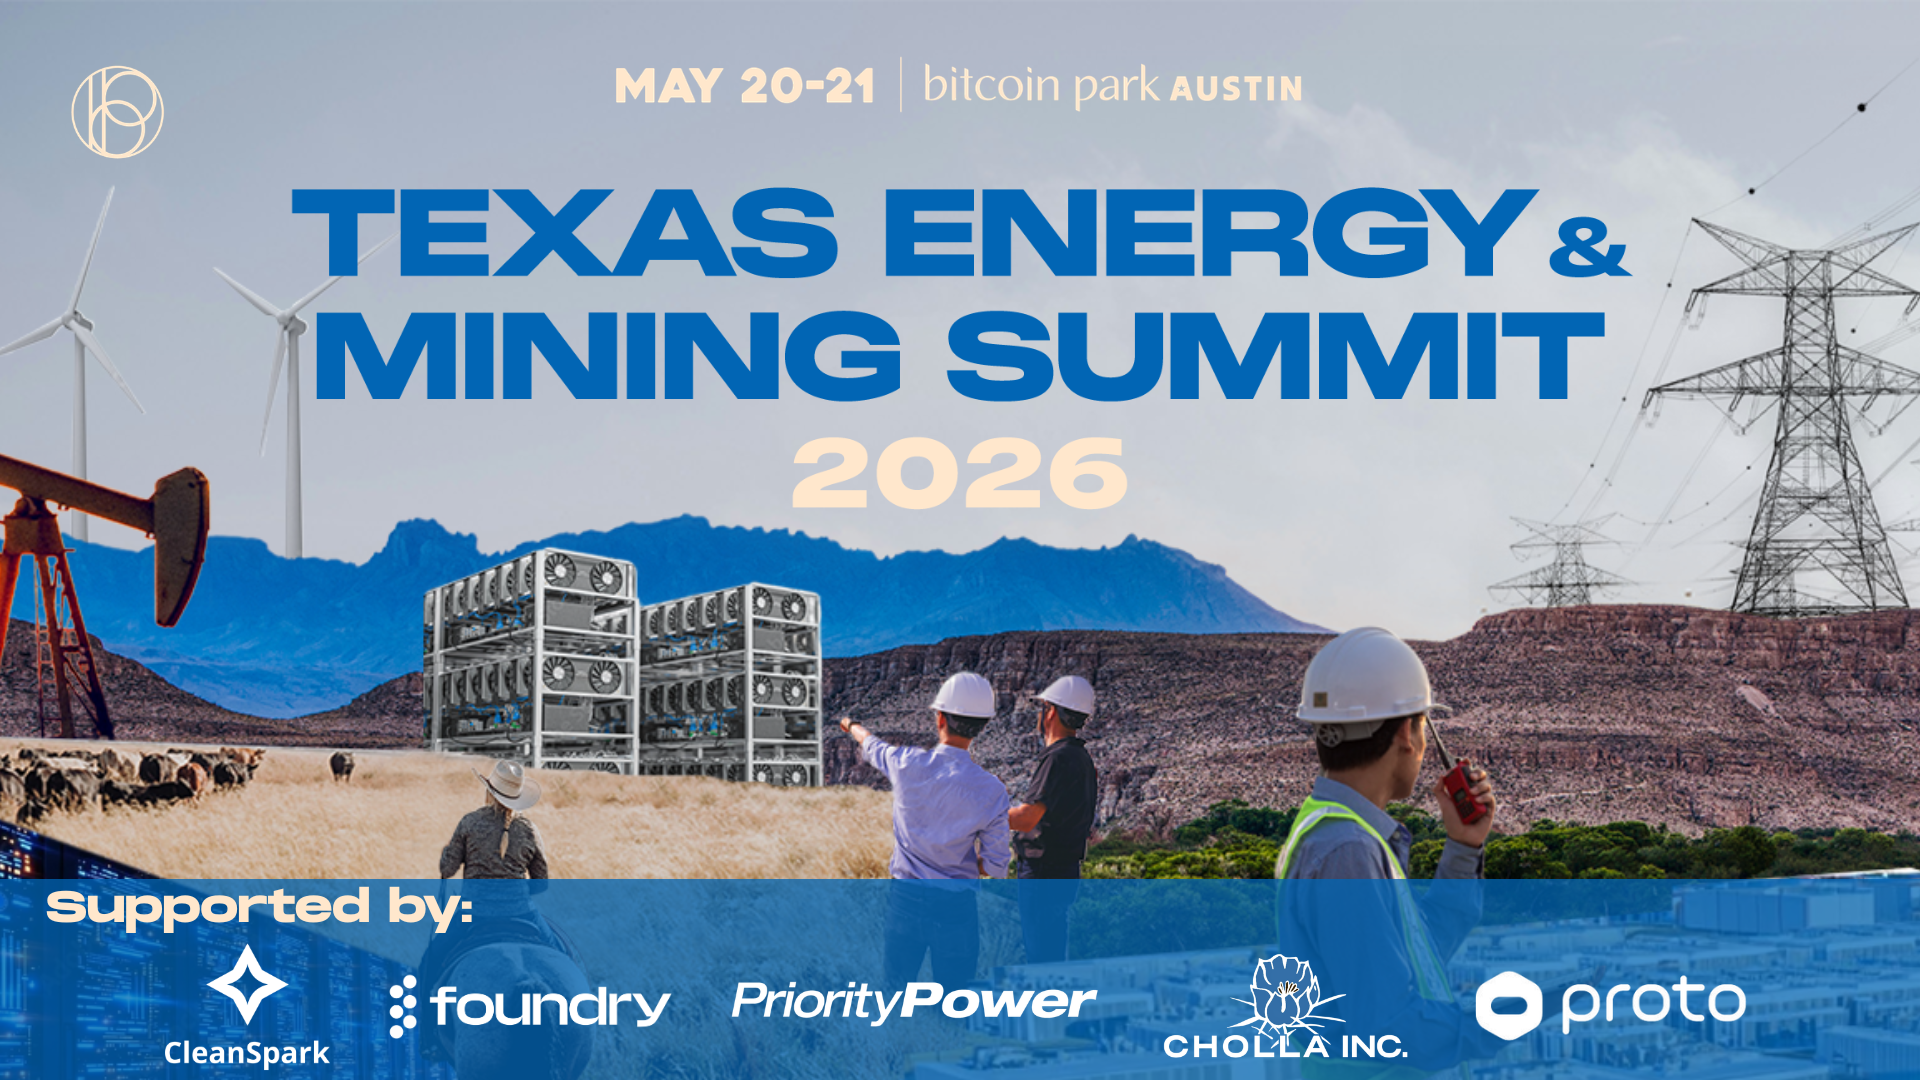
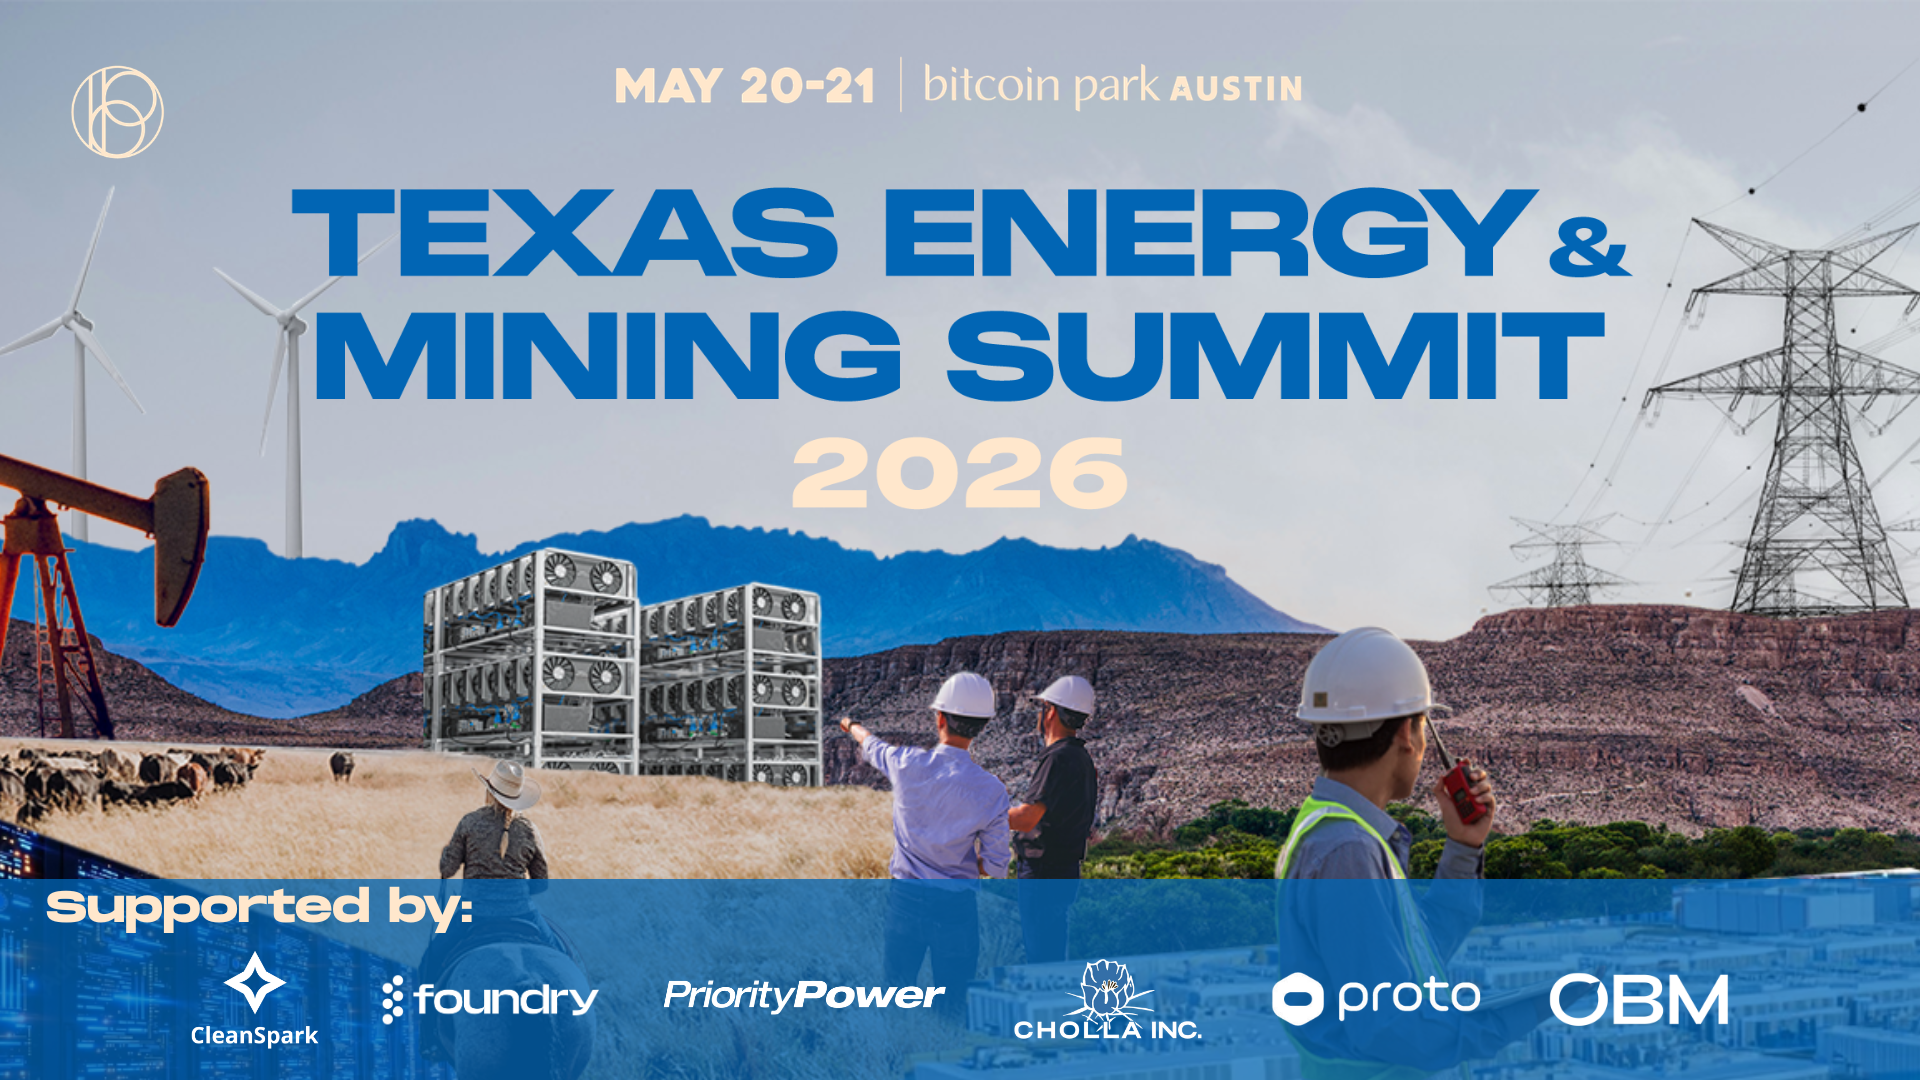
Restore OBM to TEMS sponsor image

Changed region(s): [[0.0938, 0.8861, 0.9062, 1.0]]

diff --git a/tems/index.html b/tems/index.html
@@ -16,14 +16,14 @@
   <meta property="og:description" content="Texas Energy & Mining Summit 2026. May 20-21 in Austin, TX. Laboratory Texas: Where Market Structure Meets Innovation.">
   <meta property="og:type" content="website">
   <meta property="og:url" content="https://bitcoinpark.com/tems">
-  <meta property="og:image" content="https://bitcoinpark.com/tems/TEMS-MEETUP-SPONSORS (1).png?v=20260422b">
+  <meta property="og:image" content="https://bitcoinpark.com/tems/TEMS-MEETUP-SPONSORS (1).png?v=20260422c">
   <meta property="og:site_name" content="Bitcoin Park">
 
   <!-- Twitter Card Meta Tags -->
   <meta name="twitter:card" content="summary_large_image">
   <meta name="twitter:title" content="Texas Energy & Mining Summit 2026 - Bitcoin Park">
   <meta name="twitter:description" content="Texas Energy & Mining Summit 2026. May 20-21 in Austin, TX. Laboratory Texas: Where Market Structure Meets Innovation.">
-  <meta name="twitter:image" content="https://bitcoinpark.com/tems/TEMS-MEETUP-SPONSORS (1).png?v=20260422b">
+  <meta name="twitter:image" content="https://bitcoinpark.com/tems/TEMS-MEETUP-SPONSORS (1).png?v=20260422c">
 
   <link rel="canonical" href="https://bitcoinpark.com/tems">
 
@@ -51,7 +51,7 @@
       "name": "Bitcoin Park",
       "url": "https://bitcoinpark.com"
     },
-    "image": "https://bitcoinpark.com/tems/TEMS-MEETUP-SPONSORS (1).png?v=20260422b",
+    "image": "https://bitcoinpark.com/tems/TEMS-MEETUP-SPONSORS (1).png?v=20260422c",
     "url": "https://bitcoinpark.com/tems",
     "eventStatus": "https://schema.org/EventScheduled",
     "eventAttendanceMode": "https://schema.org/OfflineEventAttendanceMode"
@@ -488,6 +488,11 @@
     .hero-sponsor-proto {
       left: 67%;
       width: 14%;
+    }
+
+    .hero-sponsor-obm {
+      left: 81.5%;
+      width: 12%;
     }
 
     /* Sections */
@@ -1182,7 +1187,7 @@
   <!-- Hero Section -->
   <section class="hero">
     <div class="hero-image">
-      <img src="./TEMS-MEETUP-SPONSORS (1).png?v=20260422b" alt="Texas Energy & Mining Summit 2026 - May 20-21, Bitcoin Park Austin - Supported by CleanSpark, Foundry, Priority Power, Cholla Inc., and Proto">
+      <img src="./TEMS-MEETUP-SPONSORS (1).png?v=20260422c" alt="Texas Energy & Mining Summit 2026 - May 20-21, Bitcoin Park Austin - Supported by CleanSpark, Foundry, Priority Power, Cholla Inc., Proto, and OBM">
 
       <!-- Clickable sponsor logo overlays -->
       <!-- CleanSpark logo -->
@@ -1209,6 +1214,11 @@
       <a href="https://proto.xyz/" target="_blank" rel="noopener noreferrer"
          class="hero-sponsor-link hero-sponsor-proto"
          aria-label="Proto"></a>
+
+      <!-- OBM logo -->
+      <a href="https://obm.io/" target="_blank" rel="noopener noreferrer"
+         class="hero-sponsor-link hero-sponsor-obm"
+         aria-label="OBM"></a>
 
     </div>
   </section>
